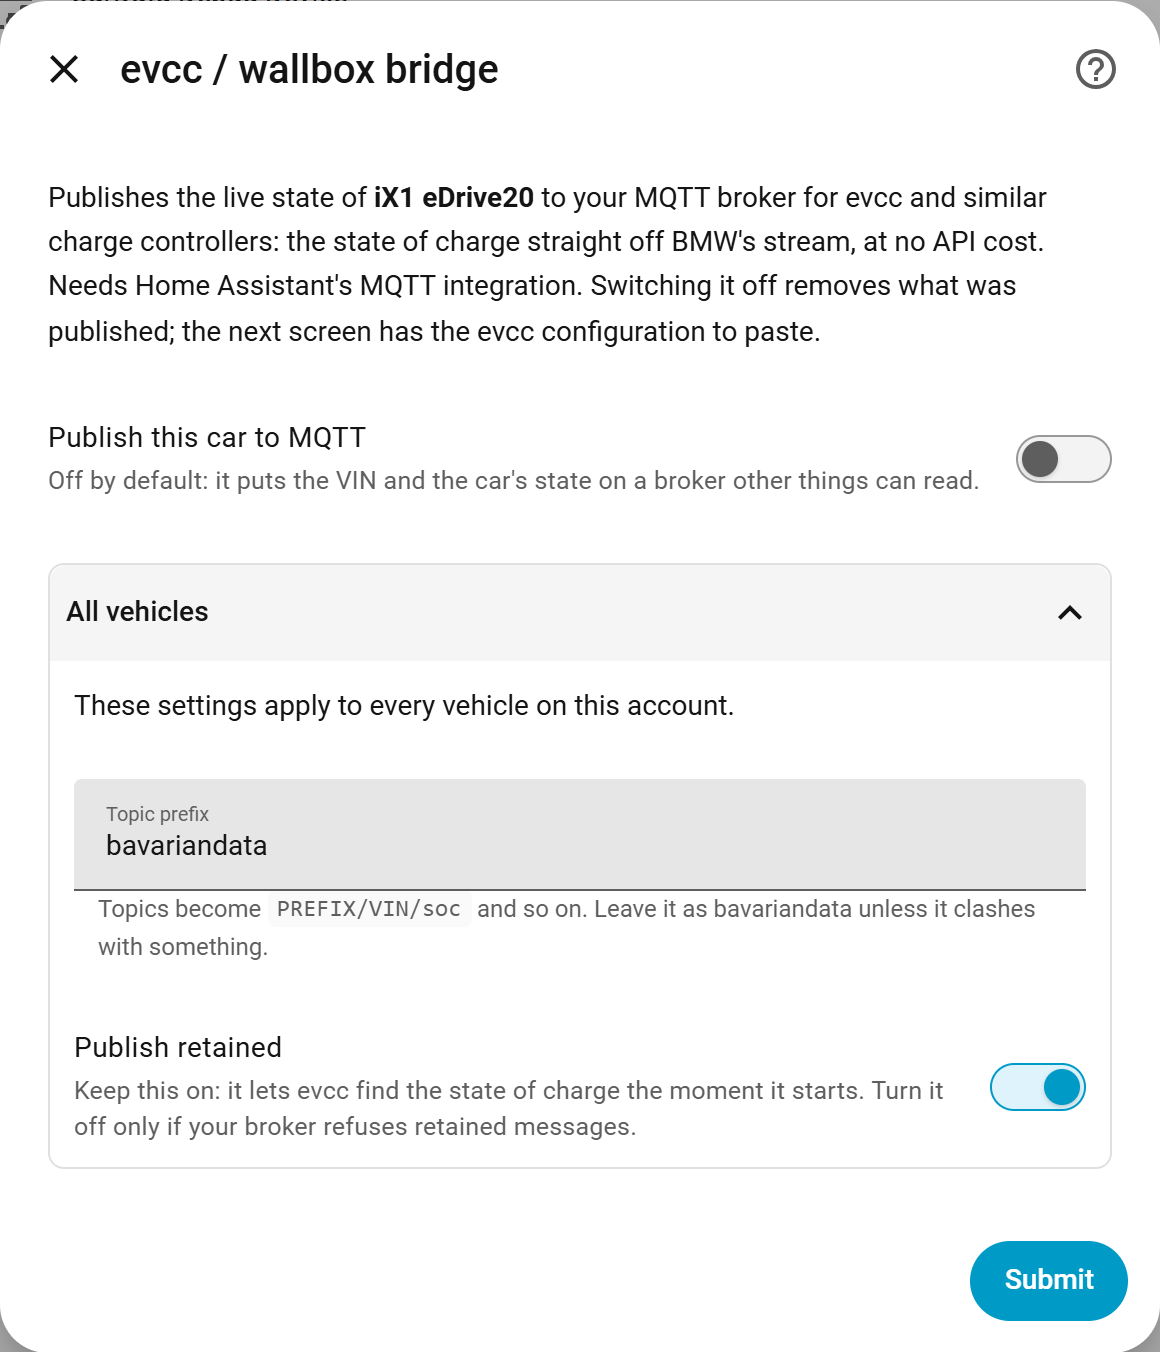
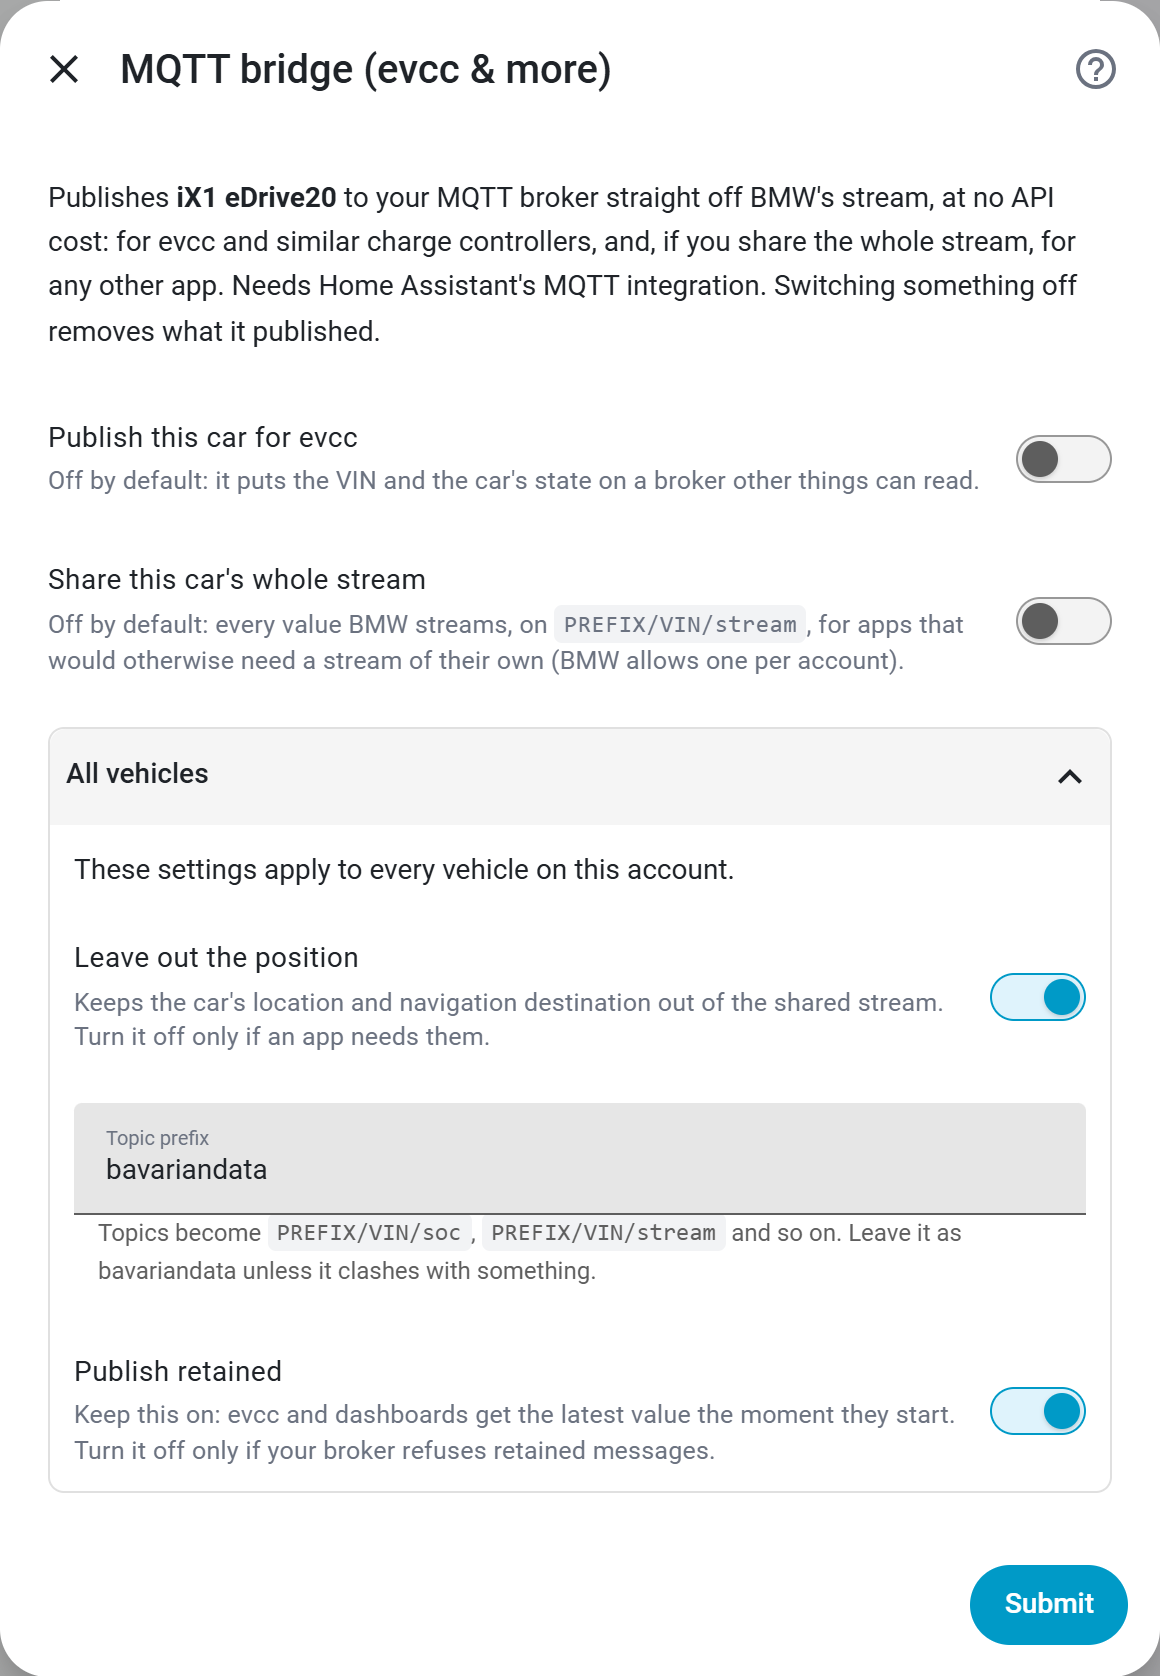
Re-shoot the MQTT bridge screens with the stream switch
Both shots still showed the old "evcc / wallbox bridge" screen, without
"Share this car's whole stream" or "Leave out the position". Taken against
the live instance on beta.3 (one car) and staged as a second car with the
All vehicles section open; alt texts in English and German follow.

diff --git a/docs/documentation-plan.md b/docs/documentation-plan.md
@@ -158,8 +158,8 @@ These live on BMW's MyBMW / CarData portal, not in our code. Screenshots are
 | `action_data_refresh` | Automatic data refresh | 🟢 Settings-Reference → "Automatic data refresh" | 📷 |
 | `charging_vehicle` | Charging costs: which vehicle (only with 2+ cars) | 🟢 Settings-Reference → "Charging costs & history" + Feature-Multiple-Cars-and-Accounts (EN + DE) | 📷 (have, staged two-car: `bavariandata-charging-costs-second-car.png`; picker shared) |
 | `action_charging_costs` | Charging costs & history (per car with 2+ cars: meter and losses; price etc. in "All vehicles") | 🟡 | 📷 (have, 2026-10-11: `bavariandata-charging-costs.png`) |
-| `bridge_vehicle` | MQTT bridge: which vehicle (only with 2+ cars) | 🟢 Settings-Reference → "MQTT bridge (evcc & more)" + Feature-Multiple-Cars-and-Accounts (EN + DE) | 📷 (stale since 2026-11-03: old title and no stream switch; re-shoot `bavariandata-evcc-bridge-second-car.png` once beta.3 is live) |
-| `action_evcc_bridge` | MQTT bridge (evcc & more) (per car with 2+ cars: evcc on/off, share the whole stream; leave out the position, prefix and retained in "All vehicles"; the evcc snippet follows only when evcc is on) | 🟢 Feature-evcc-and-Wallbox-Bridge (incl. "Sharing the whole stream, with other apps") + Settings-Reference → "MQTT bridge (evcc & more)" | 📷 (stale since 2026-11-03: re-shoot `bavariandata-evcc-bridge.png` EN + DE once beta.3 is live) |
+| `bridge_vehicle` | MQTT bridge: which vehicle (only with 2+ cars) | 🟢 Settings-Reference → "MQTT bridge (evcc & more)" + Feature-Multiple-Cars-and-Accounts (EN + DE) | 📷 (have, 2026-11-03, staged two-car: `bavariandata-evcc-bridge-second-car.png`, All vehicles open; picker shared) |
+| `action_evcc_bridge` | MQTT bridge (evcc & more) (per car with 2+ cars: evcc on/off, share the whole stream; leave out the position, prefix and retained in "All vehicles"; the evcc snippet follows only when evcc is on) | 🟢 Feature-evcc-and-Wallbox-Bridge (incl. "Sharing the whole stream, with other apps") + Settings-Reference → "MQTT bridge (evcc & more)" | 📷 (have, 2026-11-03: `bavariandata-evcc-bridge.png`) |
 | `evcc_snippet` | evcc configuration (generated, paste-ready) | 🟢 Feature-evcc-and-Wallbox-Bridge → "Setting it up" | 📷 (have, 2026-10-14: `bavariandata-evcc-snippet.png`, staged from the live YAML with the VIN replaced: the bridge was off) |
 | `trips_vehicle` | Trips: which vehicle (only with 2+ cars) | 🟢 Settings-Reference → "Trips" + Feature-Multiple-Cars-and-Accounts → "Telling the cars apart" (EN + DE) | 📷 (have, staged two-car: `bavariandata-vehicle-picker.png`) |
 | `action_trips` | Trips (per car with 2+ cars; shared settings in the collapsed "All vehicles" section) | 🟡 | 📷 (have, 2026-10-11: `bavariandata-configure-trips.png`) |

diff --git a/docs/wiki/de/DE-Settings-Reference.md b/docs/wiki/de/DE-Settings-Reference.md
@@ -206,7 +206,7 @@ Bildschirm: **Konfigurieren → MQTT-Brücke (evcc & mehr)**. Konzepte, Topic-Ta
 Fehlerbehebung stehen unter [evcc- & Wallbox-Brücke](DE-Feature-evcc-and-Wallbox-Bridge).
 
 <p align="center">
-  <img src="https://raw.githubusercontent.com/JustChr/BavarianData/main/screenshots/bavariandata-evcc-bridge.png?v=2026-10-11b" alt="evcc-/Wallbox-Brücke mit einem Auto: dieses Auto per MQTT veröffentlichen, Topic-Prefix und mit Retain veröffentlichen" width="460" />
+  <img src="https://raw.githubusercontent.com/JustChr/BavarianData/main/screenshots/bavariandata-evcc-bridge.png?v=2026-11-03" alt="MQTT-Brücke (evcc & mehr) mit einem Auto: dieses Auto für evcc veröffentlichen, seinen ganzen Stream teilen, Position weglassen, Topic-Prefix und mit Retain veröffentlichen" width="460" />
 </p>
 
 **Mehrere Fahrzeuge im Konto?** Der Bildschirm fragt zuerst nach dem Fahrzeug,
@@ -217,7 +217,7 @@ fernbleiben kann. Schaltest du ein Auto aus, werden seine Topics entfernt.
 für alle Autos, im eingeklappten Abschnitt **Alle Fahrzeuge**.
 
 <p align="center">
-  <img src="https://raw.githubusercontent.com/JustChr/BavarianData/main/screenshots/bavariandata-evcc-bridge-second-car.png?v=2026-10-11b" alt="evcc-/Wallbox-Brücke für ein zweites Auto: sein eigener Schalter, darunter Topic-Prefix und Retain gemeinsam im Abschnitt Alle Fahrzeuge" width="460" />
+  <img src="https://raw.githubusercontent.com/JustChr/BavarianData/main/screenshots/bavariandata-evcc-bridge-second-car.png?v=2026-11-03" alt="MQTT-Brücke für ein zweites Auto: oben seine eigenen Schalter für evcc und den Stream, darunter Position weglassen, Topic-Prefix und Retain gemeinsam im geöffneten Abschnitt Alle Fahrzeuge" width="460" />
 </p>
 
 Veröffentlicht den Live-Zustand des Autos auf deinem MQTT-Broker, sodass evcc, openWB

diff --git a/docs/wiki/Settings-Reference.md b/docs/wiki/Settings-Reference.md
@@ -194,7 +194,7 @@ Screen: **Configure → MQTT bridge (evcc & more)**. See
 topic table and the troubleshooting.
 
 <p align="center">
-  <img src="https://raw.githubusercontent.com/JustChr/BavarianData/main/screenshots/bavariandata-evcc-bridge.png?v=2026-10-11b" alt="evcc / wallbox bridge with one car: publish this car to MQTT, topic prefix and publish retained" width="460" />
+  <img src="https://raw.githubusercontent.com/JustChr/BavarianData/main/screenshots/bavariandata-evcc-bridge.png?v=2026-11-03" alt="MQTT bridge (evcc & more) with one car: publish this car for evcc, share its whole stream, leave out the position, topic prefix and publish retained" width="460" />
 </p>
 
 **Several cars on the account?** The screen first asks which vehicle, and
@@ -205,7 +205,7 @@ and **Publish retained** apply to every car, in the collapsed **All vehicles**
 section.
 
 <p align="center">
-  <img src="https://raw.githubusercontent.com/JustChr/BavarianData/main/screenshots/bavariandata-evcc-bridge-second-car.png?v=2026-10-11b" alt="evcc / wallbox bridge for a second car: its own publish switch, the shared topic prefix and retained setting in the All vehicles section" width="460" />
+  <img src="https://raw.githubusercontent.com/JustChr/BavarianData/main/screenshots/bavariandata-evcc-bridge-second-car.png?v=2026-11-03" alt="MQTT bridge for a second car: its own evcc and stream switches on top, leave out the position, topic prefix and retained shared in the opened All vehicles section" width="460" />
 </p>
 
 Publishes the car's live state onto your MQTT broker so evcc, openWB or a
